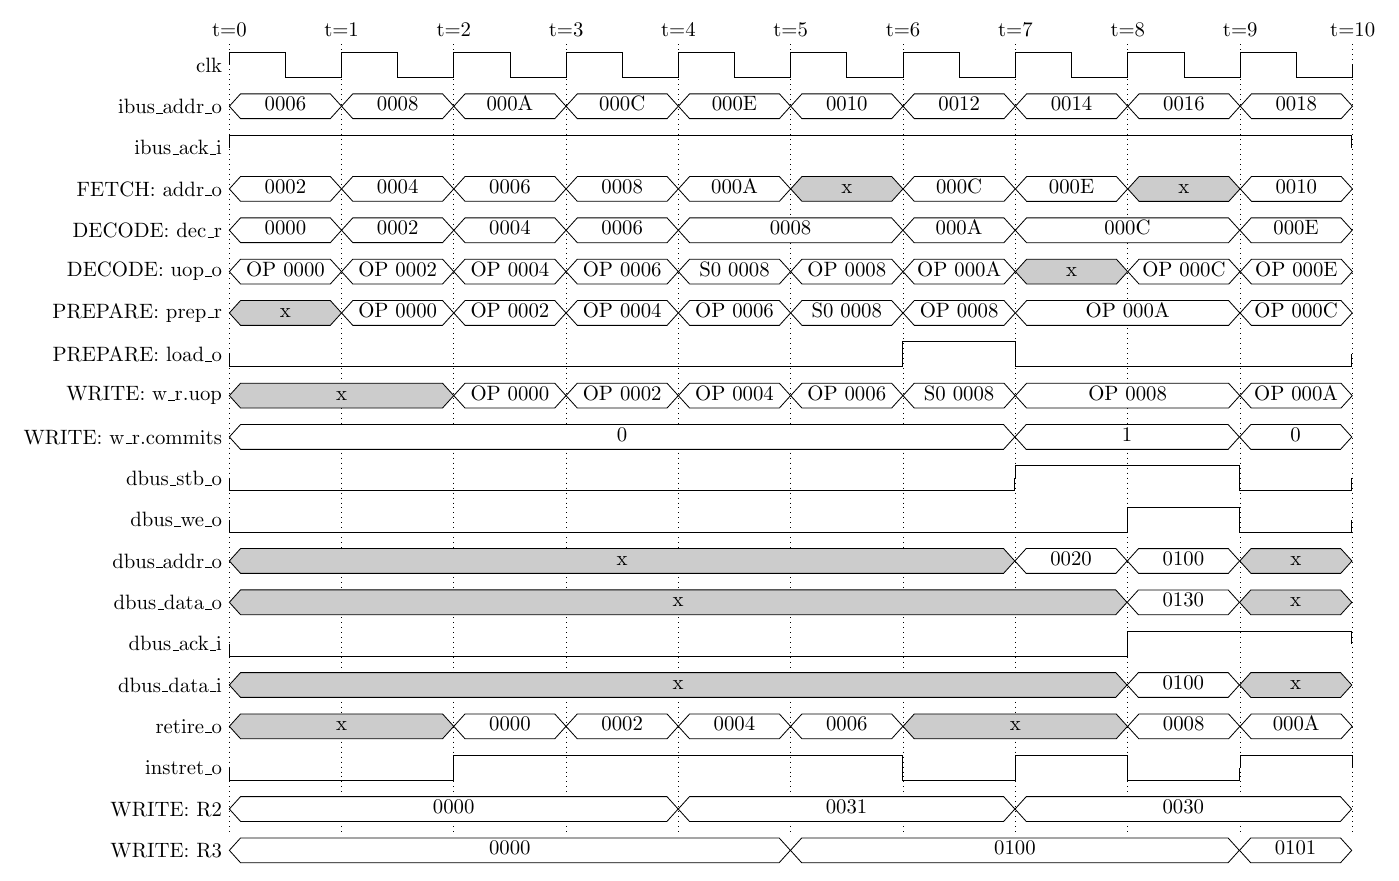
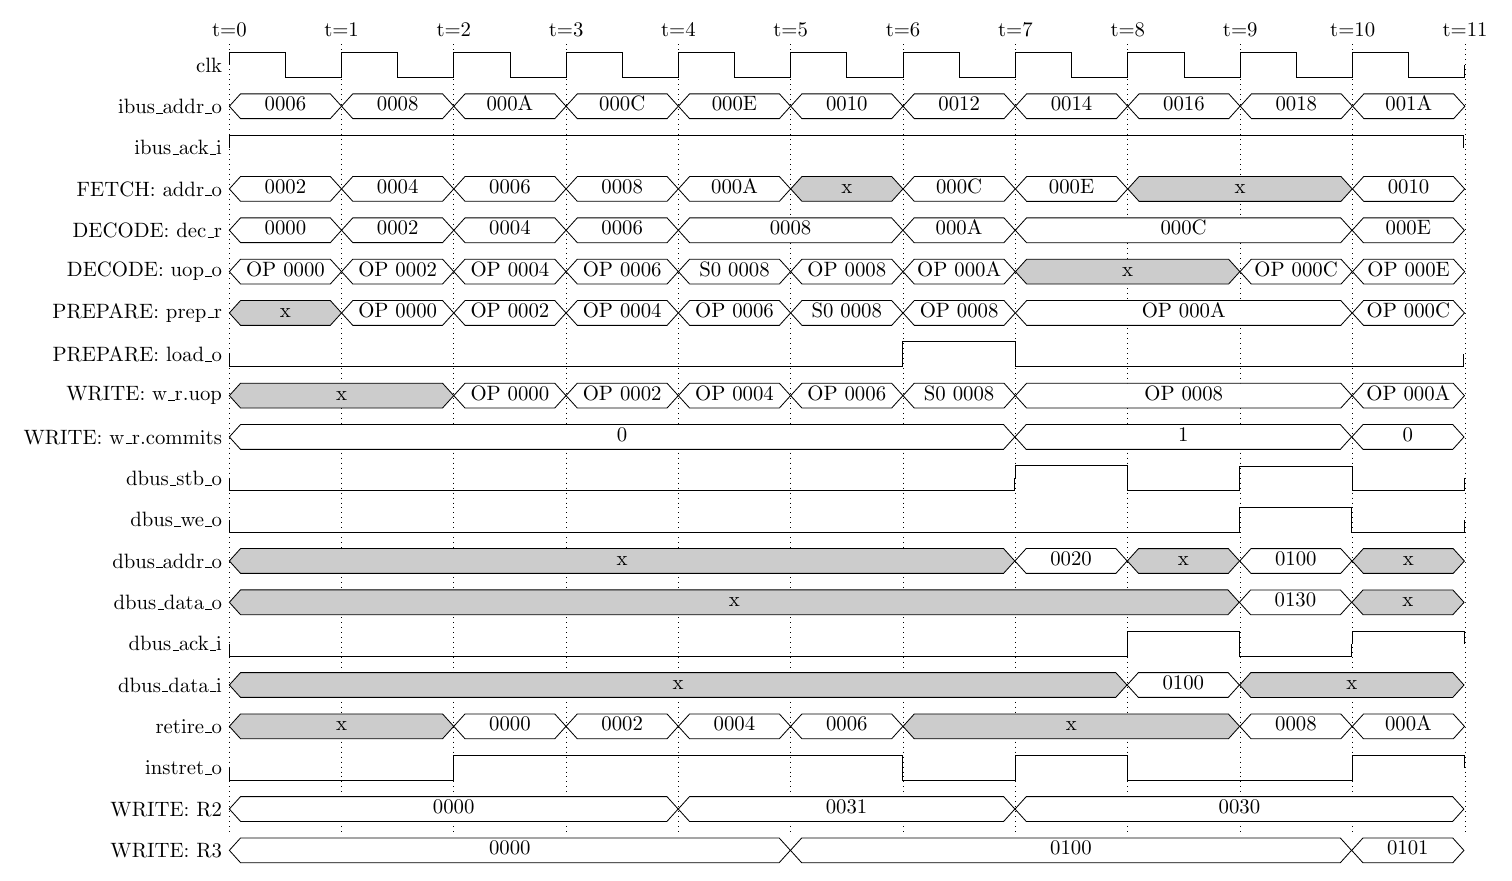
nicehdl: WRITE takes read data from the bus only into a register
In NiceMonMEGA65 the path from the block RAM through dbus_data_i, the
ALU, and into FETCH's redirect held the clock to about 78 MHz (issue 34).
WRITE now takes read data from DBUS's FIFO, a cycle after its ACK, unless
it only goes into a register: s0 and s1 with a side effect, and a MOVE
into a register other than R15. The vector of an interrupt entry comes
from the FIFO too, so an entry retires a cycle later.

Out of context, dbus_data_i now leaves 6.5 ns to the system, against
1.6 ns. The benchmark takes 4.0% more cycles for the translated program
and 6.0% for hand.nasm; taking every read from the FIFO cost 8.1% and
14.6%. bubble.nasm checks four ADDs and four MOVEs from memory, and the
interrupt diagram and the one of doc/flow.tex are read again off the
simulation.

diff --git a/doc/interrupt.tex b/doc/interrupt.tex
@@ -13,7 +13,8 @@
 % combinational in irq_valid_i and WRITE's registers. Taking the request
 % flushes the pipeline (flush_o), and WRITE reads the vector table entry
 % at VBASE * 256 + 9 = 0x0009 on the data bus (VEC). The entry is reported
-% (retire_o, "IRQ") in the cycle its data comes, and FETCH is redirected
+% (retire_o, "IRQ") in the cycle after its data comes, as WRITE takes the
+% vector from DBUS's FIFO (MICROARCH.md §5.3), and FETCH is redirected
 % there (target_o). FETCH is redirected in the cycle of the take too, and
 % then stops until the entry is done. The target of the take is the
 % address of the instruction after the dropped one (u_v.inst.next_pc in
@@ -23,7 +24,7 @@
 % All values below are read off a GHDL simulation of hdl/test/irqwave.nasm
 % on the pipelined core, with "--irq 2:9 --irq 10:9" (make test,
 % INTR_irqwave) and a memory that never stalls. Cycle 0 is the first cycle
-% after reset. Panel (a) starts at cycle 9 and panel (b) at cycle 32.
+% after reset. Panel (a) starts at cycle 9 and panel (b) at cycle 33.
 % Changing the program or the core invalidates them. The addresses:
 %
 %   0010-0024  the main program: 0010 sets E, 0012-001A and 001E-0022 are
@@ -39,13 +40,13 @@
 %
 % (a) t=2   The request comes. WRITE holds the first micro-operation of
 %           0012, which has not begun, so it takes the request at once.
-%     t=3   The vector read is on the bus; t=4 its data, and the entry.
-%     t=13  The routine's RTI retires and flushes back to 0012.
+%     t=3   The vector read is on the bus; t=4 its data; t=5 the entry.
+%     t=14  The routine's RTI retires and flushes back to 0012.
 % (b) t=1   PREPARE loads the read of 001C, while WRITE retires 001A.
 %     t=2   The request comes. 001C has issued its read (commits = 1), so
 %           no request may be taken before it.
 %     t=3   001C retires with its data; t=4 the request is taken before
-%           001E.
+%           001E; t=7 the entry.
 
 \documentclass[varwidth = 40cm, border = 8pt]{standalone}
 \usepackage{timing}
@@ -57,43 +58,43 @@
 
 {\sffamily (a) A request taken at once}\par\medskip
 
-\begin{wave}{15}{15}
- \nextwave{irq\_valid\_i}            \bit{0}{2} \bit{1}{1} \bit{0}{12}
- \nextwave{irq\_vector\_i}           \unknown[x]{2} \known{09}{1} \unknown[x]{12}
- \nextwave{irq\_ready\_o}            \bit{0}{2} \bit{1}{1} \bit{0}{12}
- \nextwave{PREPARE: prep\_r}         \known{0010}{1} \known{0012}{1} \known{0014}{1} \unknown[x]{8} \known{0025}{1} \known{0027}{1} \known{0028}{1} \unknown[x]{1}
- \nextwave{PREPARE: load\_o}         \bit{0}{15}
- \nextwave{WRITE: w\_r.uop}          \unknown[x]{1} \known{0010}{1} \known{0012}{1} \unknown[x]{9} \known{0025}{1} \known{0027}{1} \unknown[x]{1}
- \nextwave{WRITE: w\_r.mode}         \known{RUN}{3} \known{VEC}{2} \known{RUN}{10}
- \nextwave{WRITE: w\_r.commits}      \known{0}{15}
- \nextwave{WRITE: w\_r.in\_service}  \bit{0}{5} \bit{1}{9} \bit{0}{1}
- \nextwave{dbus\_stb\_o}             \bit{0}{3} \bit{1}{1} \bit{0}{11}
- \nextwave{dbus\_addr\_o}            \unknown[x]{3} \known{0009}{1} \unknown[x]{11}
- \nextwave{dbus\_ack\_i}             \bit{0}{4} \bit{1}{1} \bit{0}{10}
- \nextwave{WRITE: flush\_o}          \bit{0}{2} \bit{1}{1} \bit{0}{1} \bit{1}{1} \bit{0}{8} \bit{1}{1} \bit{0}{1}
- \nextwave{WRITE: target\_o}         \unknown[x]{2} \known{0014}{1} \unknown[x]{1} \known{0025}{1} \unknown[x]{8} \known{0012}{1} \unknown[x]{1}
- \nextwave{retire\_o}                \unknown[x]{1} \known{0010}{1} \unknown[x]{2} \known{IRQ}{1} \unknown[x]{7} \known{0025}{1} \known{0027}{1} \unknown[x]{1}
+\begin{wave}{15}{16}
+ \nextwave{irq\_valid\_i}            \bit{0}{2} \bit{1}{1} \bit{0}{13}
+ \nextwave{irq\_vector\_i}           \unknown[x]{2} \known{09}{1} \unknown[x]{13}
+ \nextwave{irq\_ready\_o}            \bit{0}{2} \bit{1}{1} \bit{0}{13}
+ \nextwave{PREPARE: prep\_r}         \known{0010}{1} \known{0012}{1} \known{0014}{1} \unknown[x]{9} \known{0025}{1} \known{0027}{1} \known{0028}{1} \unknown[x]{1}
+ \nextwave{PREPARE: load\_o}         \bit{0}{16}
+ \nextwave{WRITE: w\_r.uop}          \unknown[x]{1} \known{0010}{1} \known{0012}{1} \unknown[x]{10} \known{0025}{1} \known{0027}{1} \unknown[x]{1}
+ \nextwave{WRITE: w\_r.mode}         \known{RUN}{3} \known{VEC}{3} \known{RUN}{10}
+ \nextwave{WRITE: w\_r.commits}      \known{0}{16}
+ \nextwave{WRITE: w\_r.in\_service}  \bit{0}{6} \bit{1}{9} \bit{0}{1}
+ \nextwave{dbus\_stb\_o}             \bit{0}{3} \bit{1}{1} \bit{0}{12}
+ \nextwave{dbus\_addr\_o}            \unknown[x]{3} \known{0009}{1} \unknown[x]{12}
+ \nextwave{dbus\_ack\_i}             \bit{0}{4} \bit{1}{1} \bit{0}{11}
+ \nextwave{WRITE: flush\_o}          \bit{0}{2} \bit{1}{1} \bit{0}{2} \bit{1}{1} \bit{0}{8} \bit{1}{1} \bit{0}{1}
+ \nextwave{WRITE: target\_o}         \unknown[x]{2} \known{0014}{1} \unknown[x]{2} \known{0025}{1} \unknown[x]{8} \known{0012}{1} \unknown[x]{1}
+ \nextwave{retire\_o}                \unknown[x]{1} \known{0010}{1} \unknown[x]{3} \known{IRQ}{1} \unknown[x]{7} \known{0025}{1} \known{0027}{1} \unknown[x]{1}
 \end{wave}
 
 \bigskip
 {\sffamily (b) A request that waits for an instruction that has issued its data read}\par\medskip
 
-\begin{wave}{15}{8}
- \nextwave{irq\_valid\_i}            \bit{0}{2} \bit{1}{3} \bit{0}{3}
- \nextwave{irq\_vector\_i}           \unknown[x]{2} \known{09}{3} \unknown[x]{3}
- \nextwave{irq\_ready\_o}            \bit{0}{4} \bit{1}{1} \bit{0}{3}
- \nextwave{PREPARE: prep\_r}         \known{001A}{1} \known{001C}{1} \known{001E}{2} \known{0020}{1} \unknown[x]{3}
- \nextwave{PREPARE: load\_o}         \bit{0}{1} \bit{1}{1} \bit{0}{6}
- \nextwave{WRITE: w\_r.uop}          \known{0018}{1} \known{001A}{1} \known{001C}{2} \known{001E}{1} \unknown[x]{3}
- \nextwave{WRITE: w\_r.mode}         \known{RUN}{5} \known{VEC}{2} \known{RUN}{1}
- \nextwave{WRITE: w\_r.commits}      \known{0}{2} \known{1}{2} \known{0}{4}
- \nextwave{WRITE: w\_r.in\_service}  \bit{0}{7} \bit{1}{1}
- \nextwave{dbus\_stb\_o}             \bit{0}{2} \bit{1}{1} \bit{0}{2} \bit{1}{1} \bit{0}{2}
- \nextwave{dbus\_addr\_o}            \unknown[x]{2} \known{0028}{1} \unknown[x]{2} \known{0009}{1} \unknown[x]{2}
- \nextwave{dbus\_ack\_i}             \bit{0}{3} \bit{1}{1} \bit{0}{2} \bit{1}{1} \bit{0}{1}
- \nextwave{WRITE: flush\_o}          \bit{0}{4} \bit{1}{1} \bit{0}{1} \bit{1}{1} \bit{0}{1}
- \nextwave{WRITE: target\_o}         \unknown[x]{4} \known{0020}{1} \unknown[x]{1} \known{0025}{1} \unknown[x]{1}
- \nextwave{retire\_o}                \known{0018}{1} \known{001A}{1} \unknown[x]{1} \known{001C}{1} \unknown[x]{2} \known{IRQ}{1} \unknown[x]{1}
+\begin{wave}{15}{9}
+ \nextwave{irq\_valid\_i}            \bit{0}{2} \bit{1}{3} \bit{0}{4}
+ \nextwave{irq\_vector\_i}           \unknown[x]{2} \known{09}{3} \unknown[x]{4}
+ \nextwave{irq\_ready\_o}            \bit{0}{4} \bit{1}{1} \bit{0}{4}
+ \nextwave{PREPARE: prep\_r}         \known{001A}{1} \known{001C}{1} \known{001E}{2} \known{0020}{1} \unknown[x]{4}
+ \nextwave{PREPARE: load\_o}         \bit{0}{1} \bit{1}{1} \bit{0}{7}
+ \nextwave{WRITE: w\_r.uop}          \known{0018}{1} \known{001A}{1} \known{001C}{2} \known{001E}{1} \unknown[x]{4}
+ \nextwave{WRITE: w\_r.mode}         \known{RUN}{5} \known{VEC}{3} \known{RUN}{1}
+ \nextwave{WRITE: w\_r.commits}      \known{0}{2} \known{1}{2} \known{0}{5}
+ \nextwave{WRITE: w\_r.in\_service}  \bit{0}{8} \bit{1}{1}
+ \nextwave{dbus\_stb\_o}             \bit{0}{2} \bit{1}{1} \bit{0}{2} \bit{1}{1} \bit{0}{3}
+ \nextwave{dbus\_addr\_o}            \unknown[x]{2} \known{0028}{1} \unknown[x]{2} \known{0009}{1} \unknown[x]{3}
+ \nextwave{dbus\_ack\_i}             \bit{0}{3} \bit{1}{1} \bit{0}{2} \bit{1}{1} \bit{0}{2}
+ \nextwave{WRITE: flush\_o}          \bit{0}{4} \bit{1}{1} \bit{0}{2} \bit{1}{1} \bit{0}{1}
+ \nextwave{WRITE: target\_o}         \unknown[x]{4} \known{0020}{1} \unknown[x]{2} \known{0025}{1} \unknown[x]{1}
+ \nextwave{retire\_o}                \known{0018}{1} \known{001A}{1} \unknown[x]{1} \known{001C}{1} \unknown[x]{3} \known{IRQ}{1} \unknown[x]{1}
 \end{wave}
 
 \end{document}

diff --git a/doc/flow.tex b/doc/flow.tex
@@ -39,9 +39,12 @@
 %         (w_r.commits = 1). instret_o counts it, as the bus accepts its
 %         last read. WRITE holds OP and waits for the data, so ADD 000A
 %         waits in PREPARE, and DECODE emits nothing.
-%   t=8   The data comes. WRITE adds, puts the store on the bus, writes
-%         R3 + 1, and retires the instruction.
-%   t=9   The store's ACK. ADD 000A retires.
+%   t=8   The data comes, into DBUS's FIFO. It goes into the ALU and the
+%         store, so WRITE takes it from there a cycle later (MICROARCH.md
+%         §5.3).
+%   t=9   WRITE adds, puts the store on the bus, writes R3 + 1, and
+%         retires the instruction.
+%   t=10  The store's ACK. ADD 000A retires.
 
 \documentclass[varwidth = 40cm, border = 8pt]{standalone}
 \usepackage{timing}
@@ -51,26 +54,26 @@
 
 \begin{document}
 
-\begin{wave}{19}{10}
- \nextwave{ibus\_addr\_o}            \known{0006}{1} \known{0008}{1} \known{000A}{1} \known{000C}{1} \known{000E}{1} \known{0010}{1} \known{0012}{1} \known{0014}{1} \known{0016}{1} \known{0018}{1}
- \nextwave{ibus\_ack\_i}             \bit{1}{10}
- \nextwave{FETCH: addr\_o}           \known{0002}{1} \known{0004}{1} \known{0006}{1} \known{0008}{1} \known{000A}{1} \unknown[x]{1} \known{000C}{1} \known{000E}{1} \unknown[x]{1} \known{0010}{1}
- \nextwave{DECODE: dec\_r}           \known{0000}{1} \known{0002}{1} \known{0004}{1} \known{0006}{1} \known{0008}{2} \known{000A}{1} \known{000C}{2} \known{000E}{1}
- \nextwave{DECODE: uop\_o}           \known{OP 0000}{1} \known{OP 0002}{1} \known{OP 0004}{1} \known{OP 0006}{1} \known{S0 0008}{1} \known{OP 0008}{1} \known{OP 000A}{1} \unknown[x]{1} \known{OP 000C}{1} \known{OP 000E}{1}
- \nextwave{PREPARE: prep\_r}         \unknown[x]{1} \known{OP 0000}{1} \known{OP 0002}{1} \known{OP 0004}{1} \known{OP 0006}{1} \known{S0 0008}{1} \known{OP 0008}{1} \known{OP 000A}{2} \known{OP 000C}{1}
- \nextwave{PREPARE: load\_o}         \bit{0}{6} \bit{1}{1} \bit{0}{3}
- \nextwave{WRITE: w\_r.uop}          \unknown[x]{2} \known{OP 0000}{1} \known{OP 0002}{1} \known{OP 0004}{1} \known{OP 0006}{1} \known{S0 0008}{1} \known{OP 0008}{2} \known{OP 000A}{1}
- \nextwave{WRITE: w\_r.commits}      \known{0}{7} \known{1}{2} \known{0}{1}
- \nextwave{dbus\_stb\_o}             \bit{0}{7} \bit{1}{2} \bit{0}{1}
- \nextwave{dbus\_we\_o}              \bit{0}{8} \bit{1}{1} \bit{0}{1}
- \nextwave{dbus\_addr\_o}            \unknown[x]{7} \known{0020}{1} \known{0100}{1} \unknown[x]{1}
- \nextwave{dbus\_data\_o}            \unknown[x]{8} \known{0130}{1} \unknown[x]{1}
- \nextwave{dbus\_ack\_i}             \bit{0}{8} \bit{1}{2}
- \nextwave{dbus\_data\_i}            \unknown[x]{8} \known{0100}{1} \unknown[x]{1}
- \nextwave{retire\_o}                \unknown[x]{2} \known{0000}{1} \known{0002}{1} \known{0004}{1} \known{0006}{1} \unknown[x]{2} \known{0008}{1} \known{000A}{1}
- \nextwave{instret\_o}               \bit{0}{2} \bit{1}{4} \bit{0}{1} \bit{1}{1} \bit{0}{1} \bit{1}{1}
- \nextwave{WRITE: R2}                \known{0000}{4} \known{0031}{3} \known{0030}{3}
- \nextwave{WRITE: R3}                \known{0000}{5} \known{0100}{4} \known{0101}{1}
+\begin{wave}{19}{11}
+ \nextwave{ibus\_addr\_o}            \known{0006}{1} \known{0008}{1} \known{000A}{1} \known{000C}{1} \known{000E}{1} \known{0010}{1} \known{0012}{1} \known{0014}{1} \known{0016}{1} \known{0018}{1} \known{001A}{1}
+ \nextwave{ibus\_ack\_i}             \bit{1}{11}
+ \nextwave{FETCH: addr\_o}           \known{0002}{1} \known{0004}{1} \known{0006}{1} \known{0008}{1} \known{000A}{1} \unknown[x]{1} \known{000C}{1} \known{000E}{1} \unknown[x]{2} \known{0010}{1}
+ \nextwave{DECODE: dec\_r}           \known{0000}{1} \known{0002}{1} \known{0004}{1} \known{0006}{1} \known{0008}{2} \known{000A}{1} \known{000C}{3} \known{000E}{1}
+ \nextwave{DECODE: uop\_o}           \known{OP 0000}{1} \known{OP 0002}{1} \known{OP 0004}{1} \known{OP 0006}{1} \known{S0 0008}{1} \known{OP 0008}{1} \known{OP 000A}{1} \unknown[x]{2} \known{OP 000C}{1} \known{OP 000E}{1}
+ \nextwave{PREPARE: prep\_r}         \unknown[x]{1} \known{OP 0000}{1} \known{OP 0002}{1} \known{OP 0004}{1} \known{OP 0006}{1} \known{S0 0008}{1} \known{OP 0008}{1} \known{OP 000A}{3} \known{OP 000C}{1}
+ \nextwave{PREPARE: load\_o}         \bit{0}{6} \bit{1}{1} \bit{0}{4}
+ \nextwave{WRITE: w\_r.uop}          \unknown[x]{2} \known{OP 0000}{1} \known{OP 0002}{1} \known{OP 0004}{1} \known{OP 0006}{1} \known{S0 0008}{1} \known{OP 0008}{3} \known{OP 000A}{1}
+ \nextwave{WRITE: w\_r.commits}      \known{0}{7} \known{1}{3} \known{0}{1}
+ \nextwave{dbus\_stb\_o}             \bit{0}{7} \bit{1}{1} \bit{0}{1} \bit{1}{1} \bit{0}{1}
+ \nextwave{dbus\_we\_o}              \bit{0}{9} \bit{1}{1} \bit{0}{1}
+ \nextwave{dbus\_addr\_o}            \unknown[x]{7} \known{0020}{1} \unknown[x]{1} \known{0100}{1} \unknown[x]{1}
+ \nextwave{dbus\_data\_o}            \unknown[x]{9} \known{0130}{1} \unknown[x]{1}
+ \nextwave{dbus\_ack\_i}             \bit{0}{8} \bit{1}{1} \bit{0}{1} \bit{1}{1}
+ \nextwave{dbus\_data\_i}            \unknown[x]{8} \known{0100}{1} \unknown[x]{2}
+ \nextwave{retire\_o}                \unknown[x]{2} \known{0000}{1} \known{0002}{1} \known{0004}{1} \known{0006}{1} \unknown[x]{3} \known{0008}{1} \known{000A}{1}
+ \nextwave{instret\_o}               \bit{0}{2} \bit{1}{4} \bit{0}{1} \bit{1}{1} \bit{0}{2} \bit{1}{1}
+ \nextwave{WRITE: R2}                \known{0000}{4} \known{0031}{3} \known{0030}{4}
+ \nextwave{WRITE: R3}                \known{0000}{5} \known{0100}{5} \known{0101}{1}
 \end{wave}
 
 \end{document}

diff --git a/doc/pipeline.tex b/doc/pipeline.tex
@@ -28,8 +28,9 @@
 % dec_r, the micro-operation from dec_r reaches prep_r, and the one from
 % prep_r reaches w_r.uop, each through logic only. WRITE's store and DBUS
 % have no register: WRITE drives its store onto the bus in the cycle it
-% runs, and the read data reaches WRITE in the cycle its ACK comes, past
-% DBUS's FIFO.
+% runs, and read data that only goes into a register reaches WRITE in the
+% cycle its ACK comes, past DBUS's FIFO. Other read data comes from the
+% FIFO.
 
 \documentclass[border=8pt]{standalone}
 
@@ -208,7 +209,8 @@
    \node[anchor = west, font = \sffamily\scriptsize, align = left]
       at ([xshift = 2.5mm] legendff.east)
       {a register on the main path. WRITE drives its stores onto the data bus in the cycle it\\
-       runs them, and takes read data in the cycle its ACK comes, so neither path has one.};
+       runs them, so that path has none. It takes read data from DBUS's FIFO, but for data\\
+       that only goes into a register, which it takes in the cycle its ACK comes.};
 
 \end{tikzpicture}
 

diff --git a/doc/MICROARCH.md b/doc/MICROARCH.md
@@ -188,10 +188,11 @@ address 0008, on the core, with values read off a simulation of
 into `S0` and `OP`, one per cycle (t = 4 and 5). WRITE runs `S0` at
 t = 6, which writes R2. In the same cycle PREPARE forms the address of
 s1 and loads the read. The read is on the bus at t = 7, while WRITE
-waits in `OP` for its data. The data comes at t = 8. WRITE adds, puts
-the store on the bus, writes R3, and retires the instruction. The wait
-for the data costs one cycle: the instruction after it waits in PREPARE
-at t = 7.
+waits in `OP` for its data. The data comes at t = 8, into DBUS's FIFO.
+It goes into the ALU and the store, so WRITE takes it from there at
+t = 9 (§5.3). WRITE adds, puts the store on the bus, writes R3, and
+retires the instruction. The wait for the data costs two cycles: the
+instruction after it waits in PREPARE at t = 7 and 8.
 
 ## 5. Hazards
 
@@ -267,6 +268,17 @@ When PREPARE issues an instruction's first data read, the core commits to
 that instruction. No interrupt is taken before it (§6).
 
 Stores are issued in WRITE, which is in order, so they need no extra rule.
+
+WRITE takes read data from DBUS's FIFO, in the cycle after its ACK,
+unless the data only goes into a register: s0 or s1 with a side effect,
+which keep it for the operation, and a `MOVE` into a register other than
+R15. Those take it in the cycle of the ACK. The vector of an interrupt
+entry is a jump, so it comes from the FIFO too (§6). So no path runs from the
+data bus through the ALU, the shifter, a store, or a jump in one cycle
+([review/pipeline-timing.md](review/pipeline-timing.md), Read data).
+Any other micro-operation that reads memory waits a cycle, unless PREPARE
+issued its read early enough. That is 4% of the cycles of the translated
+benchmark and 6% of the hand-written one's.
 
 A data read directly after a store is 0.3% of the translated benchmark's
 instructions and 8% of the hand-written one's (§5.6). So rule 3 matters:
@@ -419,8 +431,8 @@ shows both cases on the core, with values read off a simulation of
 `hdl/test/irqwave.nasm`. In (a) the request comes while WRITE holds an
 instruction that has not begun. `irq_ready_o` rises at once, the flush
 drops that instruction, WRITE reads the vector table entry on the data
-bus, and the entry retires and redirects FETCH in the cycle the data
-comes. In (b) the request comes in the cycle after PREPARE issued the
+bus, and the entry retires and redirects FETCH in the cycle after the
+data comes, since WRITE takes the vector from DBUS's FIFO (§5.3). In (b) the request comes in the cycle after PREPARE issued the
 data read of `MOVE R2, @data`. That instruction is committed
 (`w_r.commits` = 1), so `irq_ready_o` waits until it has retired, and the
 request is taken before the next one.

diff --git a/doc/review/pipeline-timing.md b/doc/review/pipeline-timing.md
@@ -239,3 +239,41 @@ Every case that takes a cycle more is rare in both programs
 (`make hazards` in `bench/`): a sum on a register the previous
 instruction writes, a shift by such a register or by a word in memory,
 a destination adjusted by one, and a jump to a computed target.
+
+## Read data
+
+On 2026-10-20 NiceMonMEGA65 reached about 78 MHz with the core of the
+second measurement (issue 34 on GitHub). The worst paths ran from the
+block RAM's output into `dbus_data_i`, past DBUS's FIFO into WRITE's
+operands, through the ALU, and into FETCH's redirect and WRITE's
+registers. Out of context they were not seen, because the script
+reported only the paths between registers. `hdl/timing.tcl` now also
+reports the paths from the inputs and to the outputs. Their delays
+outside the core are 0, so their slack is the time left to the system
+around the core. At commit b7b46f4, the paths between registers had
+0.20 ns of slack, `dbus_data_i` left 1.59 ns, and the store's
+`dbus_addr_o` and `dbus_data_o` left 1.56 ns and 0.93 ns. A block RAM
+without an output register takes 2.1 ns from its clock alone.
+
+Two ways to take read data from the FIFO were tried. The cycles are the
+core's, from `make core CORE=pipeline` in `bench/`, and the slack is from
+one run of `make timing` each:
+
+| WRITE takes read data from the bus | Translated | `hand.nasm` | Left to `dbus_data_i` |
+|---|---|---|---|
+| Always, as at b7b46f4 | 2241652 | 1215117 | 1.59 ns |
+| Never | 2423723, +8.1% | 1392855, +14.6% | more than 3.75 ns, into the FIFO only |
+| Only into a register | 2331640, +4.0% | 1288181, +6.0% | 6.50 ns, into WRITE's registers |
+
+In each, the paths between registers had about 0.2 ns of slack. PREPARE
+issues a read one stage before WRITE, so a read is rarely early enough to
+hide the extra cycle. Most reads in `hand.nasm` are pops and loads into
+a register, which the third way leaves as they were. The core takes the
+third (MICROARCH.md §5.3). Against 78 MHz it pays off from about 81 MHz
+for the translated program and 83 MHz for `hand.nasm`.
+
+It adds a path from `dbus_ack_i` through WRITE's retire into FETCH,
+with 2.80 ns left, enough for an ACK from a register. The store still
+goes onto the bus from WRITE in the cycle it runs (hdl/ASSUMPTIONS.md,
+item 7), with 1.15 ns left for the address and 1.43 ns for the data,
+and is what TODO.md takes up next.

diff --git a/TODO.md b/TODO.md
@@ -19,8 +19,10 @@ No code has TODO or FIXME comments.
   - Speed: the core alone meets a 10 ns clock out of context (Vivado
     2025.1, `make timing` in `hdl/`), with a margin of a few tenths of a
     nanosecond ([doc/review/pipeline-timing.md](doc/review/pipeline-timing.md)).
-    NiceMonMEGA65 still runs it at
-    33.3 MHz, and must be tried at 100 MHz. See the clock items below.
+    In NiceMonMEGA65 it reached about 78 MHz before WRITE stopped taking
+    read data from the bus into the ALU
+    ([doc/review/pipeline-timing.md](doc/review/pipeline-timing.md), Read
+    data). See the items under "Pipelined core" below.
 - **Test order steps not done** (MICROARCH.md §9):
   - Step 4, hazard programs: `hdl/test/hazard.nasm`,
     `hdl/test/sidefx_prog.py`, and `hdl/test/smc_prog.py`, which both
@@ -86,11 +88,16 @@ No code has TODO or FIXME comments.
   FETCH's precomputed heads. Decide after NiceMonMEGA65 has been tried
   at 100 MHz.
 - **What the system adds to the core's paths.** Out of context, the
-  inputs arrive at time 0. In the system, the data bus's read data goes
-  straight into WRITE's operands in the cycle of the ACK, and
-  `dbus_stall_i` into WRITE's retire and so into the flush; the memory
-  and the decoder must register what they drive. `retire_o` and the bus
-  outputs are combinational and were never counted.
+  inputs arrive at time 0 and the outputs are due at time 10 ns, so
+  `make timing` in `hdl/` reports their slack as the time left to the
+  system. Read data goes into WRITE only for a register write (6.5 ns
+  left), but `dbus_ack_i` goes into WRITE's retire and so into FETCH
+  (2.8 ns left), and the store goes onto the bus from WRITE in the cycle
+  it runs (1.2 ns left for the address, 1.4 ns for the data). Next: the
+  store from a register in DBUS, which costs a cycle for a read right
+  after a store (MICROARCH.md §5.3, rule 3), and a skid buffer between
+  DECODE and PREPARE for the handshake. Measure each in NiceMonMEGA65.
+  `retire_o` is combinational and is not counted.
 - **NiceMonMEGA65 reads the registers from `retire_o.regs`**, which is
   `w_n.regs` of WRITE, before the register. Its worst path ends there. A
   registered copy is enough for nicemon. Fix in NiceMonMEGA65, and say in

diff --git a/doc/HISTORY.md b/doc/HISTORY.md
@@ -26,6 +26,12 @@ two kinds of access. §9.4, the mapping of WebAssembly, is
   clock to about 49 MHz. It was re-timed for 100 MHz on 2026-10-19, so that
   PREPARE reads the registers and forms the operand values, addresses, and
   shift counts ([review/pipeline-timing.md](review/pipeline-timing.md)).
+- Until 2026-10-20, WRITE took all read data in the cycle of its ACK,
+  straight from the bus. In NiceMonMEGA65 the path from the block RAM
+  through the ALU into FETCH held the clock to about 78 MHz. Now only data
+  that goes into a register takes that way, and the rest comes from DBUS's
+  FIFO a cycle later ([review/pipeline-timing.md](review/pipeline-timing.md),
+  Read data).
 - The same first version merged the adjusted destination of a register in
   mode 001 or 010 into one write, and found every jump target through the
   ALU. Now three rare cases take WRITE two cycles (MICROARCH.md §7.4).

diff --git a/hdl/README.md b/hdl/README.md
@@ -602,7 +602,10 @@ memory or through an adder, which takes three for a rotation through C
 measures what a jump costs, with the cycle counter on a memory that never
 stalls: 6 cycles over a fall-through for a jump that WRITE resolves,
 aligned or not, 2 for one that DECODE resolves, and one more for an
-operation other than `MOVE` into R15.
+operation other than `MOVE` into R15. It also measures four reads in a
+row: WRITE takes read data from DBUS's FIFO, a cycle after its ACK,
+unless it only goes into a register (MICROARCH.md §5.3), so four `ADD`s
+from memory take 2 cycles more than four `MOVE`s.
 
 The condition is tested once per instruction, in PREPARE if no older
 micro-operation may still change SR, otherwise in WRITE. A data read waits

diff --git a/hdl/ASSUMPTIONS.md b/hdl/ASSUMPTIONS.md
@@ -80,6 +80,11 @@ change outside `hdl/` are marked **Outside hdl/**, and are also in
    writer's contract asks (`src/trace_pkg.vhd`, e), at the cost of a
    longer path from the ALU to the bus. A faster clock would register the
    store and delay its instruction's report instead.
+
+   Read data takes the other way. WRITE takes it from DBUS's FIFO, a cycle
+   after its ACK, unless it only goes into a register (MICROARCH.md
+   §5.3). So no path runs from the bus through the ALU into the rest of
+   the core.
 8. **A store accepted in cycle c is seen by an instruction fetch accepted
    in cycle c + 1 or later.** This is a contract on the system, stated in
    the header of `src/pipeline.vhd`. `wb_mem` and `wb_dmux`, which has no
